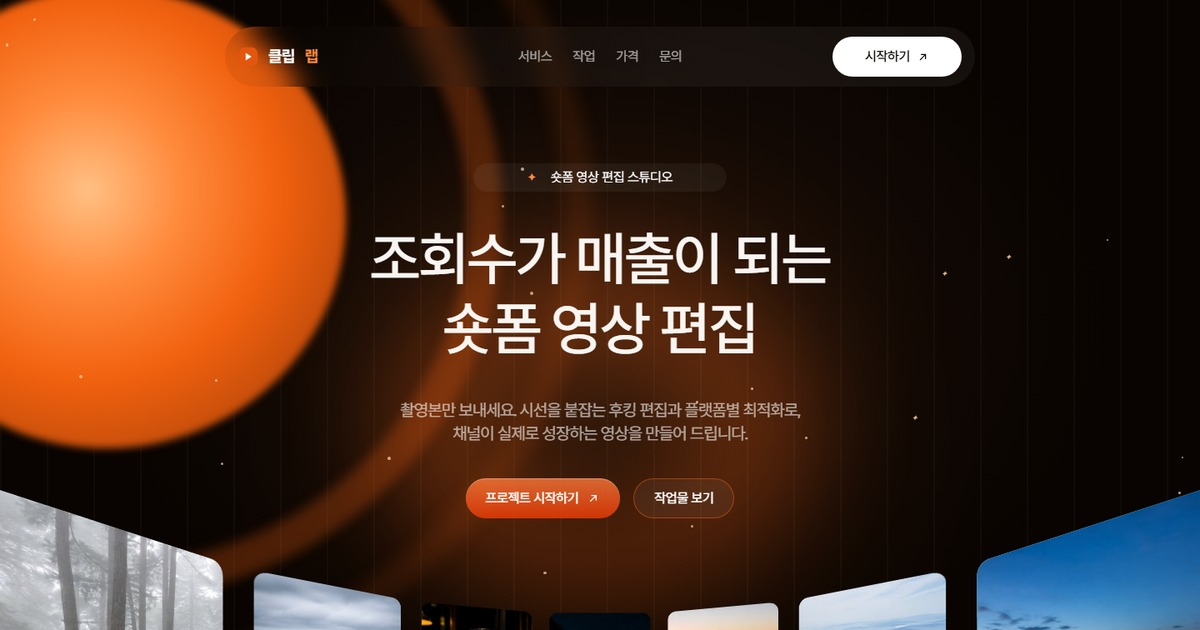
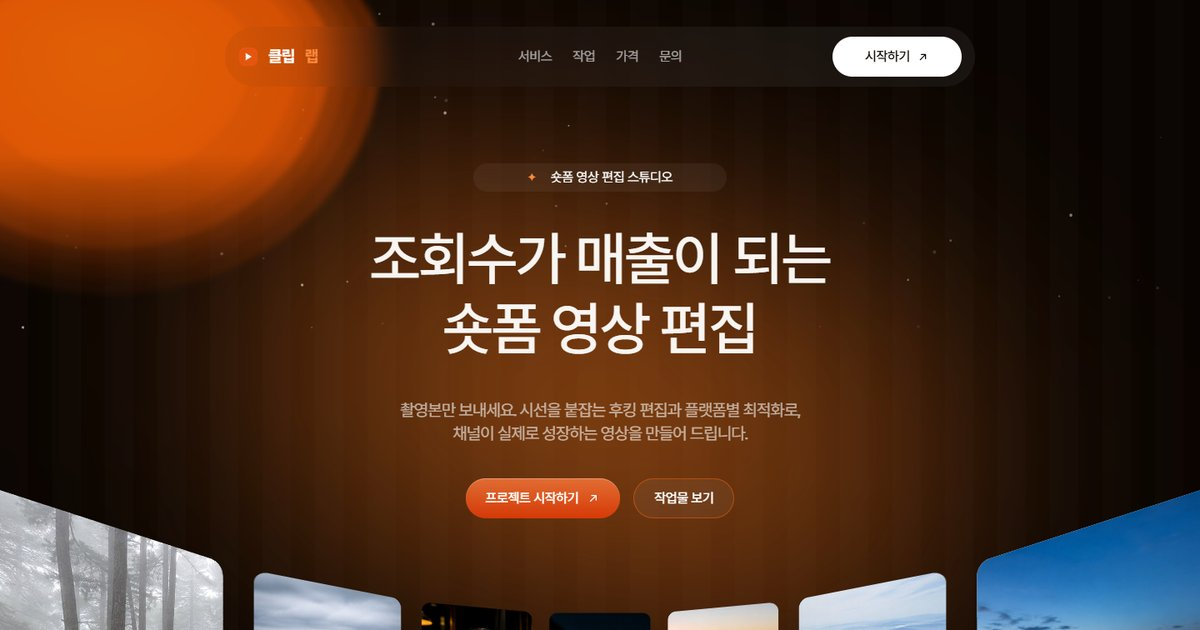
video-a: 레퍼런스 실측 재작업 — 코너 글로우 이미지(알파 프로파일 실측 생성)·별 캔버스 티커·중앙 글로우 SVG 링·63px 결 텍스처, 태그 스트립 위치, 플랫폼 카드 슬롯/블롭, 메가 패널 배경·사이드 스미어·카드 실측(318×222 r10 블롭), '무엇을 하나요' 칩 제거, 편집툴 110px 이미지 티커(40px/s)+양끝 페이드, 섹션 라벨 y 전부 레퍼런스와 0px 일치(문서 높이 14331), 푸터 행 위치, 썸네일·og 갱신

diff --git a/public/templates/video-a/index.html b/public/templates/video-a/index.html
@@ -27,6 +27,7 @@ p,li,dd,figcaption{text-wrap:pretty}
 body{background:var(--bg);color:#fff;font-family:"Bricolage Grotesque","Pretendard",-apple-system,BlinkMacSystemFont,sans-serif;font-size:16px;line-height:1.4;letter-spacing:-.02em}
 .num{font-family:"Bricolage Grotesque","Pretendard",sans-serif;letter-spacing:0}
 .wrap{max-width:1312px;margin:0 auto;padding:0}
+@media(max-width:1439px){.wrap{max-width:calc(100% - 64px)}}
 ::selection{background:rgba(250,97,20,.45)}
 a:focus-visible,button:focus-visible{outline:2px solid var(--orange2);outline-offset:3px;border-radius:4px}
 
@@ -67,7 +68,6 @@ h2.sec.sm{font-size:clamp(32px,4vw,58px)}
 .sec-head .sub{max-width:560px}
 
 /* 세로 결 텍스처 + 별 (배경 장식) */
-.streaks{position:absolute;inset:0;pointer-events:none;background:repeating-linear-gradient(90deg,rgba(255,214,170,.03) 0 2px,transparent 2px 56px)}
 .stars{position:absolute;inset:0;pointer-events:none;overflow:hidden}
 .star{position:absolute;background:#FFD9A8;border-radius:50%;opacity:.7}
 .star.tw{animation:tw 3.4s ease-in-out infinite}
@@ -95,18 +95,17 @@ nav a:hover{color:#fff}
 
 /* ── 0 히어로 — 실측(1440): 칩 y196 → h1 y270 (70/84 크림) → 서브 y478 (20/28 .6) → CTA y574 (48h) → 원통 y702 (1200×240 · persp 500) → 스트립 y1016 (632×51) · 섹션 h1137 ── */
 .hero{position:relative;height:1137px;overflow:clip}
-/* 배경: 중앙 상단 웜 브라운 워시 */
-.hero .wash{position:absolute;inset:0;background:radial-gradient(52% 48% at 50% 34%,#241309 0%,rgba(20,10,5,.55) 55%,rgba(9,4,1,0) 82%)}
-/* 좌상단 코너 글로우 — 실측 990×955 at (-367,-216): 코어 볼 + 동심 링 2겹 (화면에는 우하단 사분면만 걸친다) */
-.hero .corner{position:absolute;left:-367px;top:-216px;width:990px;height:955px;pointer-events:none}
-.hero .corner i{position:absolute;border-radius:50%}
-.hero .corner .c1{inset:21%;background:radial-gradient(circle at 46% 44%,#FFC084 0%,#FF8A3C 26%,#F1610F 52%,#C94F0B 72%,rgba(150,50,9,.9) 86%,rgba(110,36,7,.5) 100%);filter:blur(5px)}
-.hero .corner .c2{inset:2%;border:42px solid rgba(224,88,16,.30);filter:blur(7px)}
-.hero .corner .c3{inset:-9%;border:34px solid rgba(224,88,16,.12);filter:blur(10px)}
-/* 중앙 글로우 링 — 실측: 809×570 SVG 링 2겹 blur 60/100 plus-lighter at (308,204). 은은한 워밍만 */
-.hero .gring{position:absolute;left:50%;top:204px;transform:translateX(-50%);width:809px;height:570px;pointer-events:none;mix-blend-mode:plus-lighter;background:radial-gradient(ellipse 46% 52% at 50% 55%,rgba(9,4,1,0) 0 32%,rgba(214,84,16,.34) 46% 56%,rgba(9,4,1,0) 72%)}
-.hero .gring.g1{filter:blur(60px)}
-.hero .gring.g2{filter:blur(100px);opacity:.75}
+/* 배경 — 실측: 세로 결 텍스처(주기 63px, 밝은 띠 34px, 매우 은은) · 좌상단 코너 글로우 이미지 990×955 at (-365,-216) z2 · 중앙 글로우 SVG 링 2겹(#EE741E .5, feGaussianBlur 100, plus-lighter) 809×570 중심(720,489) blur 60/100 · 별 캔버스 1440×400 상단 */
+.hero .streaks{position:absolute;inset:0;pointer-events:none;background:repeating-linear-gradient(90deg,rgba(255,255,255,.012) 0 34px,transparent 34px 63px)}
+.hero .corner{position:absolute;left:-365px;top:-216px;width:990px;height:955px;pointer-events:none;z-index:2}
+.hero .corner img{display:block;width:100%;height:100%}
+.hero .cglow{position:absolute;left:50%;top:489px;width:809px;height:570px;transform:translate(-50%,-50%);pointer-events:none}
+.hero .cglow.a{filter:blur(60px)}
+.hero .cglow.a>div{filter:blur(100px)}
+.hero .cglow.b{filter:blur(100px)}
+.hero .cglow svg{display:block;width:100%;height:100%;overflow:visible}
+.hero .sky{position:absolute;left:50%;top:0;width:1440px;height:400px;transform:translateX(-50%);pointer-events:none}
+.hero .svc-shade{position:absolute;left:50%;top:1060px;width:478px;height:93px;transform:translateX(-50%);border-radius:100%;background:rgba(210,97,40,.45);filter:blur(37px);pointer-events:none;z-index:1}
 .hero-inner{position:relative;display:flex;flex-direction:column;align-items:center;text-align:center;padding-top:196px}
 .hero .chip{height:34px;min-width:304px;padding:6px 16px;border-radius:100px;font-size:16px;letter-spacing:-.02em;font-weight:400;color:#fff;justify-content:center}
 .hero .chip::before,.hero .chip::after{display:none}
@@ -127,7 +126,7 @@ nav a:hover{color:#fff}
 .vb.l{left:0;transform:rotateY(90deg)}
 .vb.r{right:0;transform:rotateY(-90deg)}
 /* 서비스 알약 스트립 — 실측 632×51 r48 bg #100B08 blur5, 항목 16/.8 + 주황 ◆ */
-.svc{position:relative;margin:74px auto 0;display:flex;align-items:center;gap:20px;height:51px;padding:0 28px;border-radius:48px;background:#100B08;backdrop-filter:blur(5px);width:max-content;max-width:100%}
+.svc{position:relative;margin:24px auto 0;display:flex;align-items:center;justify-content:center;gap:20px;height:51px;padding:0 28px;border-radius:48px;background:#100B08;backdrop-filter:blur(5px);width:632px;max-width:100%}
 .svc span{display:inline-flex;align-items:center;gap:10px;font-size:16px;letter-spacing:-.02em;color:var(--mute8)}
 .svc span svg{width:17px;height:17px;stroke:var(--mute8);fill:none;stroke-width:1.6;stroke-linecap:round;stroke-linejoin:round}
 .svc i{font-style:normal;color:var(--orange);font-size:10px}
@@ -214,25 +213,29 @@ section{position:relative}
 .plat h3 em{font-style:normal}
 /* 미디어 슬롯 — 레퍼런스는 어두운 바탕 중앙의 3D 플랫폼 아이콘. 이미지를 contain으로 중앙 배치해
    아이콘 렌더(누끼 PNG)로 갈아끼우면 그대로 재현된다 */
-.plat .slot{flex:1;margin:24px -6px;border-radius:14px;overflow:hidden;position:relative;display:grid;place-items:center;background:radial-gradient(60% 45% at 50% 90%,rgba(224,88,16,.18),rgba(9,4,1,0) 75%)}
-.plat .slot img{width:204px;height:204px;object-fit:contain;filter:drop-shadow(0 24px 40px rgba(0,0,0,.6))}
+.plat .slot{flex:1;margin:24px -6px;position:relative;display:grid;place-items:center}
+.plat .slot img{width:204px;height:204px;object-fit:contain}
 .plat p{font-size:15px;color:var(--mute8);line-height:1.5;max-width:300px;margin:0 auto}
-.mega{margin-top:96px;max-width:1090px;height:827px;margin-left:auto;margin-right:auto;border-radius:16px;position:relative;overflow:hidden;background:#0D0805;border:0;padding:48px}
-.mega .bgimg{position:absolute;inset:0;width:100%;height:100%;object-fit:cover}
-.mega .edge{position:absolute;top:0;right:0;bottom:0;width:42%;background:linear-gradient(90deg,rgba(13,8,5,0),rgba(178,46,10,.55) 60%,rgba(224,88,16,.75));mask-image:linear-gradient(90deg,transparent,#000 40%)}
-.mega .edge::after{content:"";position:absolute;inset:0;background:repeating-linear-gradient(90deg,rgba(0,0,0,.1) 0 3px,transparent 3px 60px)}
-.mega-in{position:relative;display:grid;grid-template-columns:1fr 340px;gap:80px;align-items:stretch}
+.mega{margin-top:96px;max-width:1090px;height:827px;margin-left:auto;margin-right:auto;border-radius:16px;position:relative;overflow:visible;background:#0D0805;border:0;padding:48px}
+.mega .bgimg{position:absolute;inset:0;width:100%;height:100%;object-fit:cover;border-radius:16px}
+.mega .sideglow{position:absolute;left:815px;top:-171px;width:799px;height:640px;pointer-events:none}
+section:has(.mega){overflow:clip}
+.mega .stars{border-radius:16px}
+.mega-in{position:relative;display:grid;grid-template-columns:1fr 318px;gap:80px;align-items:stretch}
 .mega-in>div:first-child{display:flex;flex-direction:column;align-items:flex-start}
 .mega h2{font-size:48px;line-height:62.4px;letter-spacing:-.03em;font-weight:500}
 .mega .sub{margin-top:22px;max-width:420px}
 .mega .btn{margin-top:auto;width:188px;height:48px;justify-content:center;padding:0}
 .mini{display:flex;flex-direction:column;gap:18px}
-.mcard{border-radius:16px;background:rgba(9,4,1,.62);border:1px solid rgba(255,255,255,.1);padding:22px 24px;backdrop-filter:blur(6px)}
-.mcard .ic{width:24px;height:24px;border-radius:50%;background:linear-gradient(180deg,#FF8A3C,#E4560F);display:grid;place-items:center;margin-bottom:14px}
+.mcard{position:relative;overflow:hidden;min-height:222px;border-radius:10px;background:#090401;border:0;padding:20px}
+.mcard::before{content:"";position:absolute;left:-40px;top:-121px;width:194px;height:194px;border-radius:100px;background:radial-gradient(50% 50%,#D95130 0%,#A84027 8.3%,#121212 100%);filter:blur(25px);pointer-events:none}
+.mcard>*{position:relative}
+.mcard .ic{width:27px;height:27px;border-radius:50%;background:linear-gradient(180deg,#FF8A3C,#E4560F);display:grid;place-items:center;margin-bottom:34px}
 .mcard .ic svg{width:14px;height:14px;stroke:#fff;fill:none;stroke-width:2;stroke-linecap:round;stroke-linejoin:round}
-.mcard hr{border:0;height:1px;background:linear-gradient(90deg,rgba(255,138,60,.5),transparent);margin-bottom:14px}
-.mcard h4{font-size:17px;font-weight:600;margin-bottom:8px}
-.mcard p{font-size:13.5px;color:var(--mute);line-height:1.5}
+.mcard hr{border:0;height:1px;background:rgba(255,255,255,.28);margin:0 0 24px;box-shadow:0 6px 0 rgba(255,120,50,.35)}
+.mcard h4{font-size:24px;line-height:26.4px;font-weight:500;margin-bottom:12px}
+.mcard p{font-size:16px;line-height:22.4px;color:rgba(255,255,255,.8)}
+.mega-in>div:last-child{display:flex;flex-direction:column;gap:12px}
 
 /* ── 4 고객 성과 — 9:16 마퀴 (실측 346×620 r16) ── */
 .works{overflow:clip}
@@ -383,15 +386,21 @@ section{position:relative}
 
 /* ── 10 편집 툴 — 실측: 한 줄 수평 배치, 아이콘 사이 연결선, 중앙 주황 글로우 + 동심 링, 라벨 없음, 좌우 끝은 화면 밖으로 ── */
 .tools{overflow:clip;padding-bottom:220px}
-.tools .glow{position:absolute;left:50%;top:56%;transform:translate(-50%,-50%);width:420px;height:420px;border-radius:50%;background:radial-gradient(circle,rgba(255,138,60,.55),rgba(224,88,16,.25) 55%,rgba(9,4,1,0) 75%);filter:blur(24px);pointer-events:none}
-.tools .ring{position:absolute;left:50%;top:56%;transform:translate(-50%,-50%);border-radius:50%;border:1px solid rgba(255,158,92,.14);pointer-events:none}
+.tools .glow{position:absolute;left:50%;top:calc(56% + 122px);transform:translate(-50%,-50%);width:420px;height:420px;border-radius:50%;background:radial-gradient(circle,rgba(255,138,60,.55),rgba(224,88,16,.25) 55%,rgba(9,4,1,0) 75%);filter:blur(24px);pointer-events:none}
+.tools .ring{position:absolute;left:50%;top:calc(56% + 122px);transform:translate(-50%,-50%);border-radius:50%;border:1px solid rgba(255,158,92,.14);pointer-events:none}
 .tools .ring.r1{width:640px;height:640px}
 .tools .ring.r2{width:920px;height:920px;border-color:rgba(255,158,92,.08)}
-.tool-row{position:relative;margin-top:96px;display:flex;justify-content:center;align-items:center;gap:0}
-.tool-row::before{content:"";position:absolute;left:-30vw;right:-30vw;top:50%;height:1px;background:rgba(255,255,255,.16)}
-.tool{position:relative;flex:none;display:grid;place-items:center;width:180px}
-.tool .tile{width:118px;height:118px;border-radius:30px;display:grid;place-items:center;font-size:32px;font-weight:600;letter-spacing:-.02em;border:1px solid rgba(255,255,255,.14);box-shadow:0 20px 50px rgba(0,0,0,.5),inset 0 1px 0 rgba(255,255,255,.2);transition:transform .3s ease}
-.tool:hover .tile{transform:translateY(-8px) scale(1.05)}
+.tool-row{position:relative;margin-top:192px;height:110px;overflow:hidden}
+.tool-row::before{content:"";position:absolute;left:0;right:0;top:50%;height:1px;background:rgba(255,255,255,.16)}
+/* 실측: 타일 110×110 r27 · 간격 194(gap 84) · 좌로 40px/s 무한 티커 · 좌우 413px 바탕색 페이드 */
+.tool-track{position:absolute;left:50%;top:0;display:flex;gap:84px;width:max-content;transform:translateX(-582px);animation:toolmq 29.1s linear infinite}
+.tool{flex:none;width:110px;height:110px}
+.tool img{display:block;width:110px;height:110px;border-radius:27px}
+.tool-shade{position:absolute;top:0;bottom:0;width:413px;pointer-events:none}
+.tool-shade.l{left:0;background:linear-gradient(90deg,#090401 0%,rgba(10,5,1,0) 100%)}
+.tool-shade.r{right:0;background:linear-gradient(270deg,#090401 0%,rgba(10,5,1,0) 100%)}
+@keyframes toolmq{to{transform:translateX(-1746px)}}
+@media(prefers-reduced-motion:reduce){.tool-track{animation:none}}
 .t1{background:linear-gradient(160deg,#2A1F4E,#120C26);color:#B9A7FF}
 .t2{background:linear-gradient(160deg,#3A3A3E,#161618);color:#F2F2F2}
 .t3{background:linear-gradient(160deg,#0E3B3B,#081A1A);color:#6EF2D8}
@@ -467,8 +476,22 @@ footer::after{content:"";position:absolute;left:0;right:0;bottom:0;height:55%;ba
   .f-cols{gap:48px;flex-wrap:wrap}
   .ghostword{font-size:150px;bottom:-64px}
   .tool{width:104px}
-  .tool .tile{width:72px;height:72px;border-radius:20px;font-size:20px}
-  .tools{padding-bottom:120px}
+    .tools{padding-bottom:120px}
+}
+
+/* 세로 리듬 실측 보정 — 레퍼런스 섹션 라벨 y 기준 (1440): 문제 1317 · 해결 2297 · 고객성과 5436 · 성과 6697 · 과정 8172 · 후기 9294 · 가격 10207 · FAQ 11415 · 편집툴 12215 · CTA 13243 */
+@media(min-width:1024px){
+  section.prob{padding-top:180px}
+  section:nth-of-type(3){padding-top:41px}
+  section.works{padding-top:298px}
+  section:nth-of-type(6){padding-top:69px}
+  section:nth-of-type(7){padding-top:111px}
+  section:nth-of-type(8){padding-top:165px}
+  section#pricing{padding-top:99px}
+  section:nth-of-type(10){padding-top:44px;padding-bottom:0}
+  section.tools{padding-top:101px}
+  section#contact{padding-top:226px}
+  footer{margin-top:80px;padding-bottom:146px}
 }
 </style>
 </head>
@@ -497,12 +520,12 @@ footer::after{content:"";position:absolute;left:0;right:0;bottom:0;height:55%;ba
 
 <!-- 0 히어로 -->
 <section class="hero">
-  <div class="wash" aria-hidden="true"></div>
-  <div class="streaks"></div>
-  <div class="gring g1" aria-hidden="true"></div>
-  <div class="gring g2" aria-hidden="true"></div>
-  <div class="corner" aria-hidden="true"><i class="c3"></i><i class="c2"></i><i class="c1"></i></div>
-  <div class="stars" data-stars="46" aria-hidden="true"></div>
+  <div class="streaks" aria-hidden="true"></div>
+  <div class="cglow a" aria-hidden="true"><div><svg viewBox="0 0 809 570" preserveAspectRatio="none"><defs><filter id="cgf" x="-50%" y="-50%" width="200%" height="200%" color-interpolation-filters="sRGB"><feGaussianBlur stdDeviation="100"/></filter></defs><g filter="url(#cgf)" style="mix-blend-mode:plus-lighter"><path fill="#EE741E" fill-opacity=".5" fill-rule="evenodd" d="M785 334A212 212 0 1 0 361 334A212 212 0 1 0 785 334ZM679 334A106 106 0 1 1 467 334A106 106 0 1 1 679 334Z"/><path fill="#EE741E" fill-opacity=".5" fill-rule="evenodd" d="M447 235A212 212 0 1 0 23 235A212 212 0 1 0 447 235ZM341 235A106 106 0 1 1 129 235A106 106 0 1 1 341 235Z"/></g></svg></div></div>
+  <div class="cglow b" aria-hidden="true"><svg viewBox="0 0 809 570" preserveAspectRatio="none"><defs><filter id="cgf2" x="-50%" y="-50%" width="200%" height="200%" color-interpolation-filters="sRGB"><feGaussianBlur stdDeviation="100"/></filter></defs><g filter="url(#cgf2)" style="mix-blend-mode:plus-lighter"><path fill="#EE741E" fill-opacity=".5" fill-rule="evenodd" d="M785 334A212 212 0 1 0 361 334A212 212 0 1 0 785 334ZM679 334A106 106 0 1 1 467 334A106 106 0 1 1 679 334Z"/><path fill="#EE741E" fill-opacity=".5" fill-rule="evenodd" d="M447 235A212 212 0 1 0 23 235A212 212 0 1 0 447 235ZM341 235A106 106 0 1 1 129 235A106 106 0 1 1 341 235Z"/></g></svg></div>
+  <div class="corner" aria-hidden="true"><img src="./assets/glow-corner.png" alt=""></div>
+  <canvas class="sky" id="sky" width="1440" height="400" aria-hidden="true"></canvas>
+  <i class="svc-shade" aria-hidden="true"></i>
   <div class="hero-inner">
     <span class="chip rv y30 on-load"><span class="sp">✦</span>&nbsp; 숏폼 영상 편집 스튜디오</span>
     <h1 class="rv bl on-load d1">조회수가 매출이 되는<br>숏폼 영상 편집</h1>
@@ -620,29 +643,28 @@ footer::after{content:"";position:absolute;left:0;right:0;bottom:0;height:55%;ba
 <section class="pad">
   <div class="wrap">
     <div class="sec-head">
-      <span class="chip rv y30">무엇을 하나요</span>
       <h2 class="sec rv bl">촬영본에서 업로드 준비까지,<br>숏폼 편집 전 과정</h2>
       <p class="sub rv d1">플랫폼마다 통하는 문법이 다릅니다.<br>같은 촬영본도 채널 특성에 맞춰 다르게 편집합니다.</p>
     </div>
     <div class="plat-grid">
       <article class="plat rv y30 d1">
         <h3>유튜브 <em>쇼츠</em></h3>
-        <div class="slot"><img src="./assets/start-growing-to-1.jpg" alt="유튜브 쇼츠 편집 예시 화면"></div>
+        <div class="slot"><img src="./assets/icon-shorts.png" alt="유튜브 쇼츠 편집 예시 화면"></div>
         <p>쇼츠 알고리즘에 맞춘 길이와 후킹 구조로 편집합니다</p>
       </article>
       <article class="plat rv y30 d2">
         <h3>인스타그램 <em>릴스</em></h3>
-        <div class="slot"><img src="./assets/start-growing-to-2.jpg" alt="인스타그램 릴스 편집 예시 화면"></div>
+        <div class="slot"><img src="./assets/icon-reels.png" alt="인스타그램 릴스 편집 예시 화면"></div>
         <p>릴스 도달에 맞춘 트렌드 자막 · 템포 · 후킹을 설계합니다</p>
       </article>
       <article class="plat rv y30 d3">
         <h3>틱톡 <em>비디오</em></h3>
-        <div class="slot"><img src="./assets/start-growing-to-3.jpg" alt="틱톡 비디오 편집 예시 화면"></div>
+        <div class="slot"><img src="./assets/icon-tiktok.png" alt="틱톡 비디오 편집 예시 화면"></div>
         <p>유행 사운드와 포맷, 네이티브한 감성에 맞춘 빠른 컷 편집</p>
       </article>
     </div>
     <div class="mega rv">
-      <img class="bgimg" src="./assets/mega-bg.jpg" alt="" aria-hidden="true">
+      <img class="bgimg" src="./assets/mega-bg.png" alt="" aria-hidden="true"><img class="sideglow" src="./assets/side-glow.png" alt="" aria-hidden="true">
       <div class="stars" data-stars="16" aria-hidden="true"></div>
       <div class="mega-in">
         <div>
@@ -935,14 +957,8 @@ footer::after{content:"";position:absolute;left:0;right:0;bottom:0;height:55%;ba
     </div>
   </div>
   <div class="tool-row" aria-label="사용 가능한 편집 툴: 캡컷 · 다빈치 리졸브 · 애프터 이펙트 · 프리미어 프로 · 파이널 컷 · 필모라">
-    <div class="tool" aria-hidden="true"><span class="tile" style="background:#17120E;color:#3A322B">Vx</span></div>
-    <div class="tool rv y30 d1"><span class="tile t3">Cc</span></div>
-    <div class="tool rv y30 d2"><span class="tile t5">Dv</span></div>
-    <div class="tool rv y30 d3"><span class="tile t6">Ae</span></div>
-    <div class="tool rv y30 d4"><span class="tile t1">Pp</span></div>
-    <div class="tool rv y30 d5"><span class="tile t2">Fc</span></div>
-    <div class="tool rv y30 d6"><span class="tile t4">Fm</span></div>
-    <div class="tool" aria-hidden="true"><span class="tile" style="background:#17120E;color:#3A322B">Lw</span></div>
+    <div class="tool-track"><span class="tool"><img src="./assets/tool-1.png" alt=""></span><span class="tool"><img src="./assets/tool-2.png" alt=""></span><span class="tool"><img src="./assets/tool-3.png" alt=""></span><span class="tool"><img src="./assets/tool-4.png" alt=""></span><span class="tool"><img src="./assets/tool-5.png" alt=""></span><span class="tool"><img src="./assets/tool-6.png" alt=""></span><span class="tool"><img src="./assets/tool-1.png" alt=""></span><span class="tool"><img src="./assets/tool-2.png" alt=""></span><span class="tool"><img src="./assets/tool-3.png" alt=""></span><span class="tool"><img src="./assets/tool-4.png" alt=""></span><span class="tool"><img src="./assets/tool-5.png" alt=""></span><span class="tool"><img src="./assets/tool-6.png" alt=""></span></div>
+    <i class="tool-shade l" aria-hidden="true"></i><i class="tool-shade r" aria-hidden="true"></i>
   </div>
 </section>
 
@@ -1075,6 +1091,18 @@ burger.addEventListener('click',()=>{
   });
   document.body.appendChild(sheet);burger.setAttribute('aria-label','메뉴 닫기');
 });
+
+// 히어로 별 캔버스 — 실측: 1440×400, 흰 점 1~2px 약 45개, 좌하단으로 약 20px/s 드리프트, 개별 깜빡임(2~4s) + 가끔 번쩍
+(function(){const c=document.getElementById('sky');if(!c)return;const ctx=c.getContext('2d');const W=c.width,H=c.height;const N=45;
+const st=[];for(let i=0;i<N;i++)st.push({x:Math.random()*W,y:Math.random()*H,r:0.8+Math.random()*1.2,a:0.25+Math.random()*0.4,p:Math.random()*Math.PI*2,f:2+Math.random()*2,fl:0});
+let t0=performance.now(),last=t0;const rm=matchMedia('(prefers-reduced-motion:reduce)').matches;
+function draw(now){const dt=(now-last)/1000;last=now;const t=(now-t0)/1000;ctx.clearRect(0,0,W,H);
+ for(const s of st){if(!rm){s.x-=20*dt;s.y+=14*dt;if(s.x<-4){s.x=W+4;s.y=Math.random()*H}if(s.y>H+4){s.y=-4;s.x=Math.random()*W}}
+  if(s.fl>0)s.fl-=dt*3;else if(Math.random()<0.0008)s.fl=1;
+  const tw=0.6+0.4*Math.sin(t*Math.PI*2/s.f+s.p);const al=Math.min(1,s.a*tw+s.fl);
+  ctx.beginPath();ctx.arc(s.x,s.y,s.r*(1+s.fl*0.6),0,Math.PI*2);ctx.fillStyle='rgba(255,241,226,'+al.toFixed(3)+')';ctx.fill();}
+ if(!rm)requestAnimationFrame(draw);}
+requestAnimationFrame(draw);})();
 </script>
 </body>
 </html>

diff --git a/public/templates/video-a/템플릿_이미지프롬프트_video-a.md b/public/templates/video-a/템플릿_이미지프롬프트_video-a.md
@@ -2,12 +2,22 @@
 
 | 슬롯 | 파일 | 표시 크기 | 프롬프트 |
 |---|---|---|---|
-| 플랫폼 카드 아이콘(쇼츠) | assets/start-growing-to-1.jpg | 204×204 | 3D glossy glass app icon of a vertical video play button, dark smoked glass with orange rim light, floating on pure dark background #100B08, studio product render, soft bottom glow |
-| 플랫폼 카드 아이콘(릴스) | assets/start-growing-to-2.jpg | 204×204 | 3D glossy glass app icon of a rounded-square camera reel with play triangle, dark smoked glass, orange rim light, dark background #100B08, studio render |
-| 플랫폼 카드 아이콘(틱톡풍) | assets/start-growing-to-3.jpg | 204×204 | 3D glossy glass music-note icon, dark smoked glass with orange edge glow, dark background #100B08, studio render |
-| More content 패널 배경 | assets/mega-bg.jpg | 1090×827 | Wide dark panel background, left side near-black #0D0805, right 40% glowing vertical orange-red gradient stripes like stage curtains, tiny warm sparkles, cinematic |
+| 플랫폼 카드 아이콘(쇼츠) | assets/icon-shorts.png (투명 PNG) | 204×204 | 3D glossy glass app icon of a vertical video play button, dark smoked glass with orange rim light, floating on pure dark background #100B08, studio product render, soft bottom glow |
+| 플랫폼 카드 아이콘(릴스) | assets/icon-reels.png (투명 PNG) | 204×204 | 3D glossy glass app icon of a rounded-square camera reel with play triangle, dark smoked glass, orange rim light, dark background #100B08, studio render |
+| 플랫폼 카드 아이콘(틱톡풍) | assets/icon-tiktok.png (투명 PNG) | 204×204 | 3D glossy glass music-note icon, dark smoked glass with orange edge glow, dark background #100B08, studio render |
+| More content 패널 배경 | assets/mega-bg.png (투명 PNG · 이미 생성됨, 교체 불필요) | 1090×827 | Wide dark panel background, left side near-black #0D0805, right 40% glowing vertical orange-red gradient stripes like stage curtains, tiny warm sparkles, cinematic |
 | 히어로 원통 카드 12장 | assets/hero-*.jpg | 260×370 | 세로형 숏폼 영상 스틸(업종별 실사) — 사용자가 실제 작업물로 교체 |
 | 마퀴 영상 카드 | assets/see-more-works-*.jpg | 346×620 | 9:16 세로 영상 썸네일 — 사용자가 실제 작업물로 교체 |
 
 - 아이콘은 CSS 도형으로 흉내내지 않는다(런북 §3-2). 같은 크기 슬롯 + 이 프롬프트로 생성해 교체한다.
 - 생성 해상도: 표시 크기의 2배(레티나). 예: 204×204 → 408×408.
+
+## 2026-09-06 추가 슬롯 (Claude 재작업)
+
+| 슬롯 | 파일 | 표시 크기 | 프롬프트 |
+|---|---|---|---|
+| 편집 툴 아이콘 6장 (티커) | assets/tool-1.png ~ tool-6.png (투명 PNG, 220×220 생성) | 110×110 · r27 | 순서: 캡컷풍 검정 타일 / 다빈치 리졸브풍 컬러 구슬 3개 / Ae풍 보라 타일 "Ae" / Pr풍 보라 타일 "Pr" / 파이널컷풍 컬러 클래퍼 / 필모라풍 청록 타일. 각각 `glossy 3D app icon tile, rounded square, dark glass with subtle top highlight, [설명], centered, transparent background, no text except the two-letter mark, high detail` |
+| 히어로 좌상단 글로우 | assets/glow-corner.png | 990×955 | **이미 생성됨(레퍼런스 알파 프로파일 실측으로 그림). 교체 불필요.** |
+| More content 패널 배경 / 우측 스미어 | assets/mega-bg.png, assets/side-glow.png | 1090×827 / 799×640 | **이미 생성됨. 교체 불필요.** |
+
+- 플랫폼 3D 아이콘 3장(icon-shorts/reels/tiktok.png)은 현재 유리질 사각 플레이스홀더. 위 표의 프롬프트로 생성해 같은 파일명(투명 PNG, 408×408)으로 덮어쓰면 끝.
